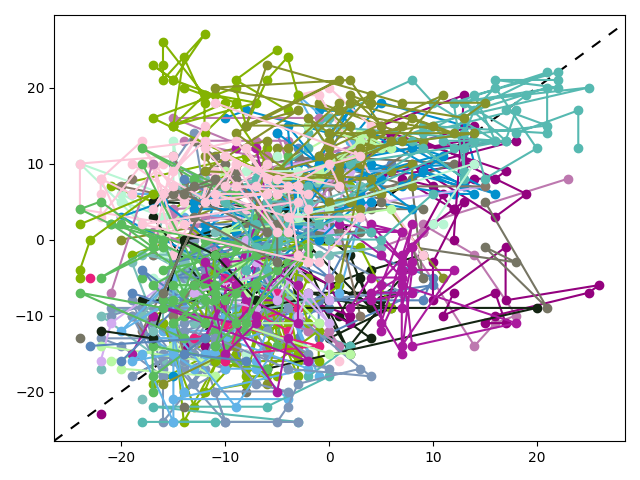
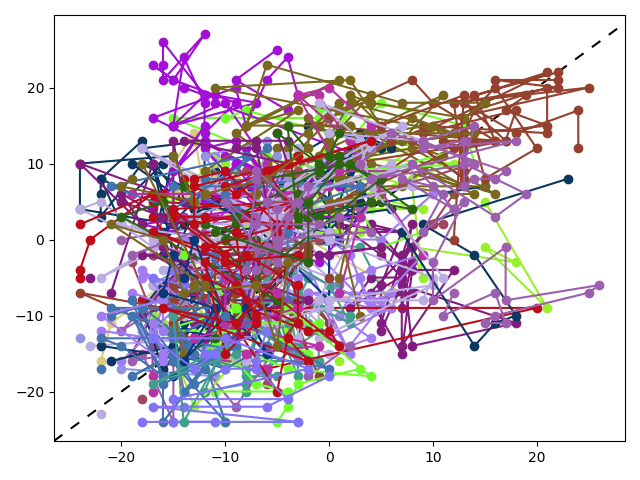
add live plotting

diff --git a/plotter.py b/plotter.py
@@ -1,0 +1,107 @@
+import matplotlib.pyplot as plt
+import os
+from readall import read_allfile, get_overlapping_sessions, get_session_info_string
+
+
+def time_window_decodes(decodes, tmin, tmax):
+    decs = []
+    for d in decodes:
+        if (d['t']>= tmin and d['t']<= tmax):
+            decs.append(d)
+    return decs
+
+def plot_session(ax, decA, decB, ts, te):
+    ax.axline((0, 0), slope=1, color="black", linestyle=(0, (5, 5)))
+
+    # need to move this so it doesn't initialise each plot - global or __init__ if making a class
+    from random import randint
+    colorseries = []
+    ncolors = 20
+    for i in range(ncolors):
+        colorseries.append('#%06X' % randint(0, 0xFFFFFF))
+
+    calls = set()
+    bandModes = set()
+    dA, dB = [], []
+    for d in decA:
+        if(d['t']>=ts and d['t']<=te):
+            calls.add(d['oc'])
+            bandModes.add(d['bm'])
+            dA.append(d)
+    print(f"{len(calls)} callsigns from all A")
+    for d in decB:
+        if(d['t']>=ts and d['t']<=te):
+            calls.add(d['oc'])
+            bandModes.add(d['bm'])
+            dB.append(d)
+    print(f"{len(calls)} callsigns from all A and all B")
+
+    nReports = 0
+    for i, c in enumerate(calls):
+        series_x = []
+        series_y = []
+        colors=[]
+        for da in dA:
+            if(da['oc']==c):
+                for db in dB:
+                    if(db['oc'] == c and abs(da['t'] - db['t']) <30): # coincident reports same callsign
+                        series_x.append(da['rp'])
+                        series_y.append(db['rp'])
+        ax.plot(series_x, series_y, c = colorseries[i % ncolors] , marker ="o")
+        nReports += len(series_x)
+
+
+
+def plot_all_historic(allA, allB):
+    print("Reading all files")
+    alldecA, sA = read_allfile(allA)
+    for s in sA:
+        print(f"A: {get_session_info_string(s)}")
+    alldecB, sB = read_allfile(allB)
+    for s in sB:
+        print(f"B: {get_session_info_string(s)}")
+
+    print("Finding overlapping sessions")
+    coinc = get_overlapping_sessions(sA,sB)
+    for c in coinc:
+        print(f"AB: {get_session_info_string(c)}")
+        
+    print("Time windowing decode lists")
+    tmin, _, _ = coinc[0]
+    _, tmax, _ = coinc[-1]
+    decA = time_window_decodes(alldecA, tmin, tmax)
+    decB = time_window_decodes(alldecB, tmin, tmax)
+
+    print("Plotting sessions")
+    for c in coinc:
+        info_str = get_session_info_string(c)
+        ts, te, bm = c
+        print(f"\nPlotting {info_str}")
+        fig,ax = plt.subplots()
+        plot_session(ax, decA, decB, int(ts), int(te))
+        plt.tight_layout()
+        if not os.path.exists("plots"):
+            os.makedirs("plots")
+        plotfile = info_str+".png"
+        print(f"Saving plot plots/{plotfile}")
+        plt.savefig(f"plots/{plotfile}")
+        plt.close()
+
+def plot_live(allA, allB):
+    import time
+    tg = 5*60
+    fig,ax = plt.subplots()
+    plt.ion()
+    while(True):
+        decA, sA = read_allfile(allA)
+        decB, sB = read_allfile(allB)
+        tmax = max(sA[-1][1], sB[-1][1])
+        tmax = time.time()
+        tmin = tmax - tg
+        ax.cla()
+        plot_session(ax, decA, decB, int(tmin), int(tmax))
+        plt.tight_layout()
+        plt.pause(1)
+
+
+

diff --git a/run.py b/run.py
@@ -1,91 +1,9 @@
-import matplotlib.pyplot as plt
-import os
-from readall import read_allfile, get_overlapping_sessions, get_session_info_string
+from plotter import plot_all_historic, plot_live
 
-
-def time_window_decodes(decodes, tmin, tmax):
-    decs = []
-    for d in decodes:
-        if (d['t']>= tmin and d['t']<= tmax):
-            decs.append(d)
-    return decs
-
-def plot_session(decA, decB, ts, te, plotfile):
-    fig,ax = plt.subplots()
-    ax.axline((0, 0), slope=1, color="black", linestyle=(0, (5, 5)))
-
-    from random import randint
-    colors = []
-    ncolors = 20
-    for i in range(ncolors):
-        colors.append('#%06X' % randint(0, 0xFFFFFF))
-
-    calls = set()
-    bandModes = set()
-    dA, dB = [], []
-    for d in decA:
-        if(d['t']>=ts and d['t']<=te):
-            calls.add(d['oc'])
-            bandModes.add(d['bm'])
-            dA.append(d)
-    print(f"{len(calls)} callsigns from all A")
-    for d in decB:
-        if(d['t']>=ts and d['t']<=te):
-            calls.add(d['oc'])
-            bandModes.add(d['bm'])
-            dB.append(d)
-    print(f"{len(calls)} callsigns from all A and all B")
-
-    # plotfile = plotfile + " "+ ",".join(list(bandModes))+".png"
-    nReports = 0
-    for i, c in enumerate(calls):
-     #   if(i % 10 ==0):
-     #       print(f"At callsign {i} of {len(calls)}: accumulated {nReports} reports")
-        series_x = []
-        series_y = []
-        for da in dA:
-            if(da['oc']==c):
-                for db in dB:
-                    if(db['oc'] == c and abs(da['t'] - db['t']) <30): # coincident reports same callsign
-                        series_x.append(da['rp'])
-                        series_y.append(db['rp'])
-        ax.plot(series_x, series_y, color = colors[i % ncolors], marker ="o")
-        nReports += len(series_x)
-    if(nReports>0):
-        plt.tight_layout()
-        if not os.path.exists("plots"):
-            os.makedirs("plots")
-        print(f"Saving plot plots/{plotfile}")
-        plt.savefig(f"plots/{plotfile}")
-    plt.close()
 
 allA = r"C:\Users\drala\AppData\Local\WSJT-X\all.txt"
 allB = r"C:\Users\drala\AppData\Local\WSJT-X - AltAB\all.txt"
-
-print("Reading all files")
-alldecA, sA = read_allfile(allA)
-for s in sA:
-    print(f"A: {get_session_info_string(s)}")
-alldecB, sB = read_allfile(allB)
-for s in sB:
-    print(f"B: {get_session_info_string(s)}")
-
-print("Finding overlapping sessions")
-coinc = get_overlapping_sessions(sA,sB)
-for c in coinc:
-    print(f"AB: {get_session_info_string(c)}")
-    
-print("Time windowing decode lists")
-tmin, _, _ = coinc[0]
-_, tmax, _ = coinc[-1]
-decA = time_window_decodes(alldecA, tmin, tmax)
-decB = time_window_decodes(alldecB, tmin, tmax)
-
-print("Plotting sessions")
-for c in coinc:
-    info_str = get_session_info_string(c)
-    ts, te, bm = c
-    print(f"\nPlotting {info_str}")
-    plot_session(decA, decB, int(ts), int(te), f"{info_str}.png")
+plot_all_historic(allA, allB)
 
 
+#plot_live(allA, allB)

diff --git a/readall.py b/readall.py
@@ -27,6 +27,7 @@ def get_decodes(fp):
     return(decodes)
 
 def get_single_file_sessions(decodes):
+    # is this picking up the very last session?
     tg = 5*60
     t0=0
     bm0 = ""
